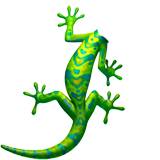
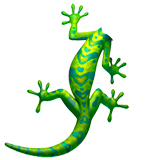
chore: remove duplicate lizard img

Changed region(s): [[0.0, 0.0, 0.8125, 1.0]]

diff --git a/index.html b/index.html
@@ -1031,7 +1031,7 @@
             <span id="lizard-container" role="img" aria-label="lizard">
               <img
                 id="lizard-body"
-                src="/lizard/lizard-body-2.png"
+                src="/lizard/lizard-body.png"
                 width="80"
                 height="80"
                 alt=""
